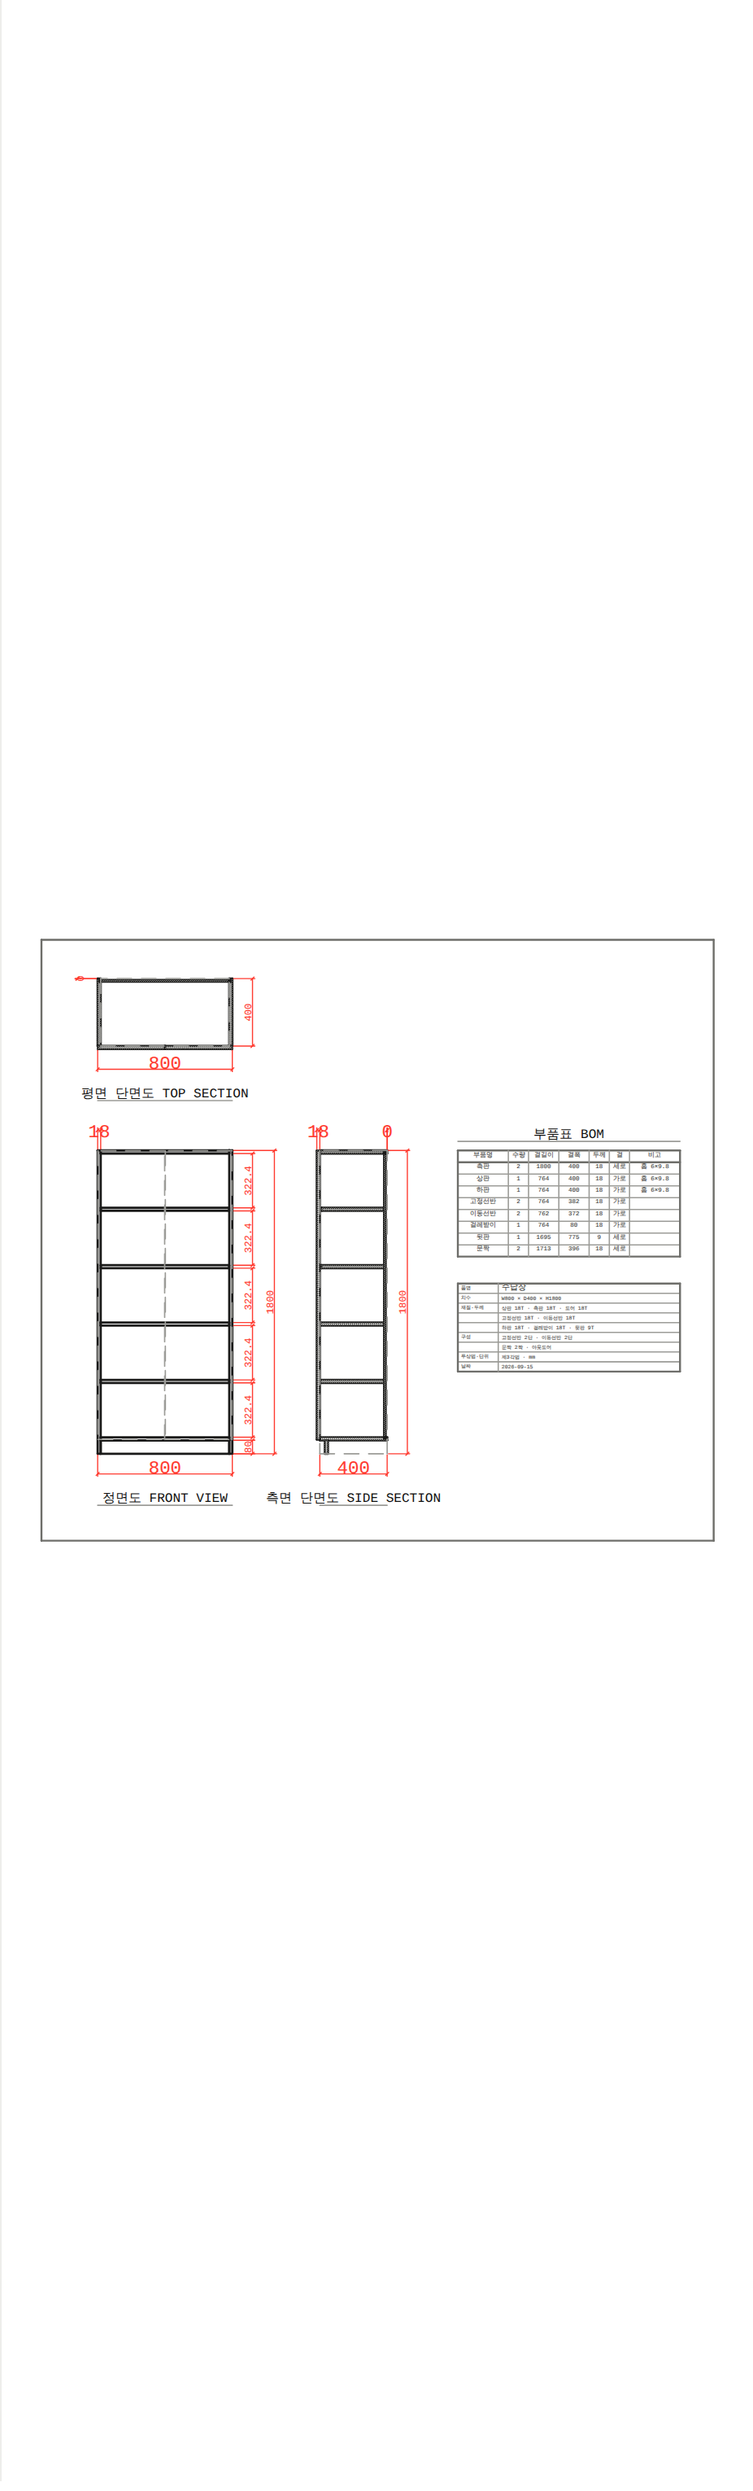
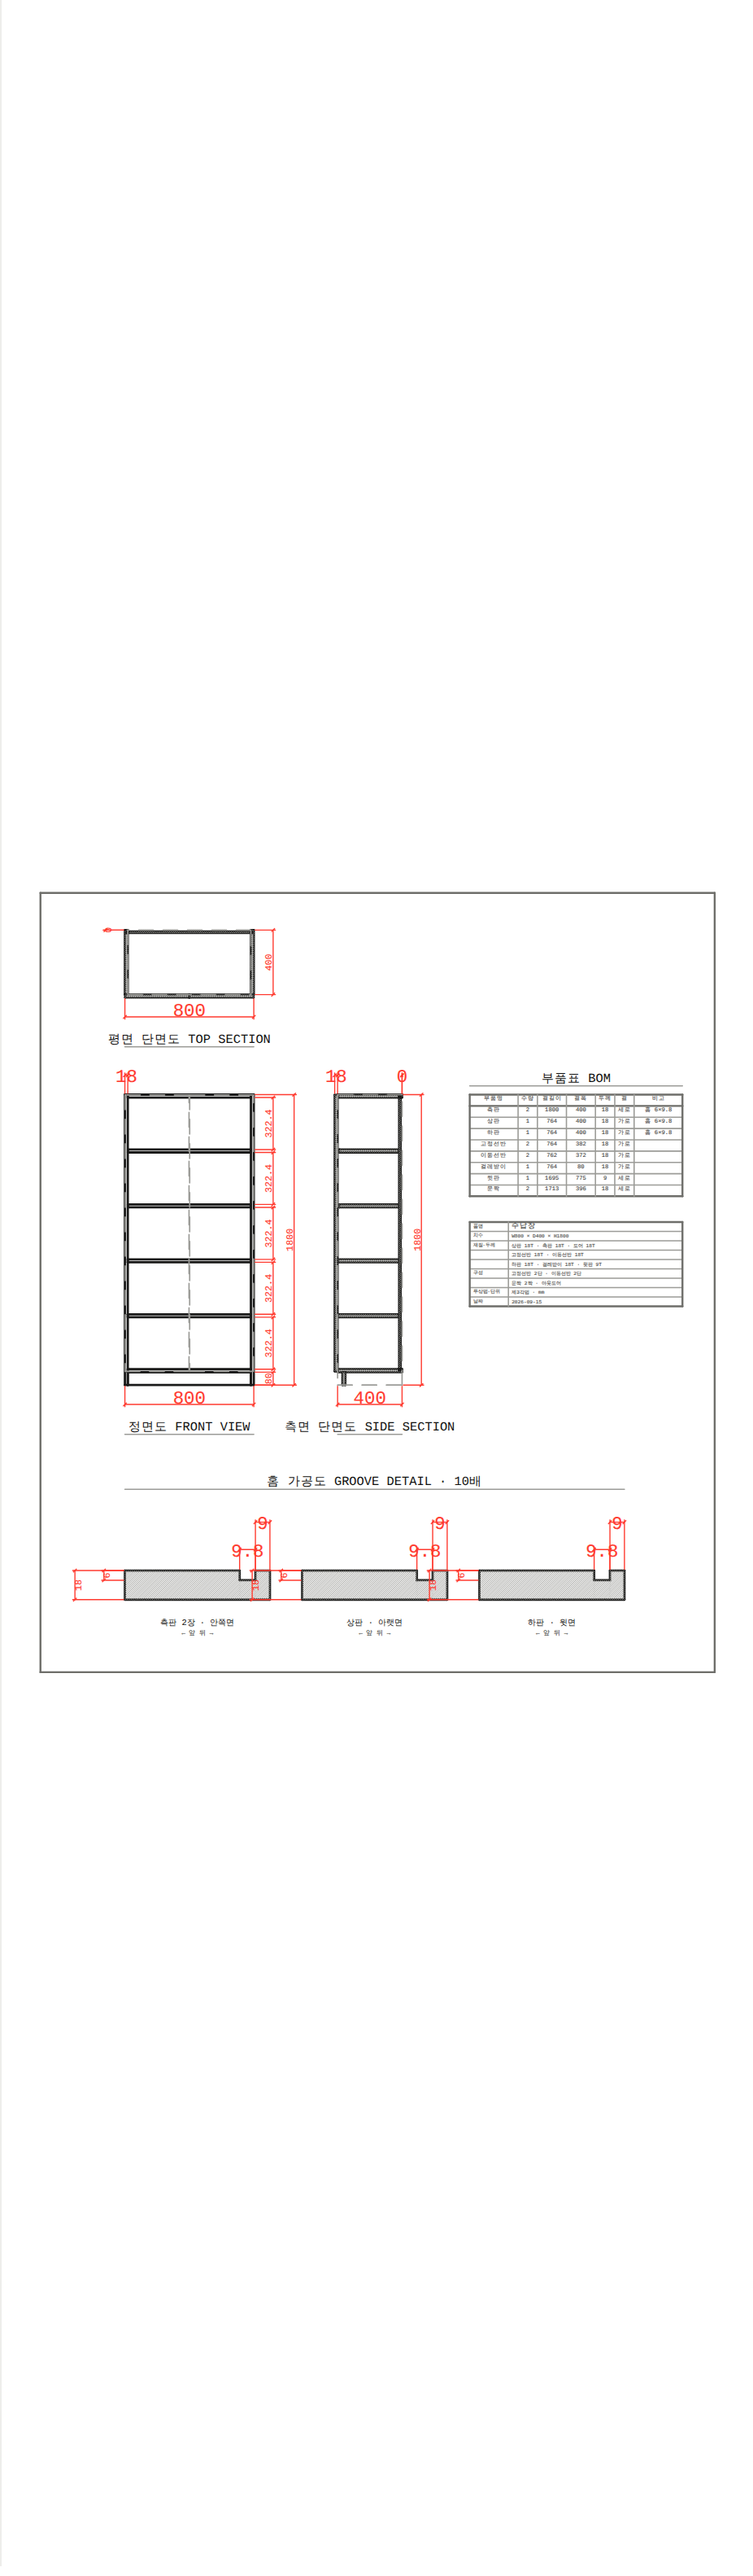
홈 가공도를 부속마다 그리고 뒷판 들어감을 보드선택에 낸다
측판·상판·하판을 10배로 잘라 그려 홈 폭·깊이·뒤 끝까지 거리를 치수로 찍는다.
덮기면 가공도가 안 나온다. 들어감 값은 관계표와 같은 값이다.

Claude-Session: https://claude.ai/code/session_01EKNRGFHGrx8LhDAjWNMSSY

diff --git a/index.html b/index.html
@@ -38,6 +38,7 @@ button:disabled{opacity:.5;cursor:default}
   display:flex;align-items:center;gap:8px}
 .group h2::after{content:"";flex:1;height:1px;background:var(--line2)}
 .field{display:grid;grid-template-columns:1fr 112px;align-items:center;gap:10px}
+.field[hidden]{display:none}
 .field label{color:var(--ink);font-weight:600;word-break:keep-all}
 .field small{display:block;color:var(--ink3);font-weight:400;font-size:12px;word-break:keep-all}
 .num{display:flex;align-items:center;border:1px solid var(--line);border-radius:13px;background:#fff;overflow:hidden}
@@ -200,6 +201,8 @@ dialog::backdrop{background:rgba(17,17,16,.4)}
       <div class="field"><label for="TB">뒷판</label><select id="TB" data-key="TB"><option>2.7</option><option>3</option><option>5</option><option>6</option><option selected>9</option><option>12</option><option>15</option><option>18</option><option>23</option><option>24</option><option>25</option><option>28</option><option>55</option></select></div>
       <div class="field wide"><label>뒷판 조립</label>
         <div class="seg"><label><input type="radio" name="backMode" value="cover" checked>덮기</label><label><input type="radio" name="backMode" value="insert">끼우기</label></div></div>
+      <div class="field" id="backInWrap" hidden><label for="backIn">뒷판 들어감 <small>몸통 뒷면에서 홈까지</small></label>
+        <div class="num"><input id="backIn" type="number" min="0" max="40" step="0.5" value="9"><span>mm</span></div></div>
       <div id="customList"></div>
       <div class="field wide"><label for="newPart">부속 만들기</label>
         <div class="addrow"><input id="newPart" type="text" maxlength="20" placeholder="부속 이름"><button id="btnAdd" type="button">추가</button></div>
@@ -444,17 +447,17 @@ function buildDrawing(s, m){
   // 뷰 제목 — 글자 아래에 짧은 줄을 그어 그림과 가른다 (스펙시트에서 흔한 꼴)
   const 제목 = (str, cx, y, w) => { text(str, cx, y, 46); 쪽 = 1; line(cx - w/2, y - 36, cx + w/2, y - 36, 'TITLE'); 쪽 = 0; };
   const tick = (x,y) => line(x-9,y-9,x+9,y+9,'DIM');
-  const dimH = (x1,x2,y,off) => {
+  const dimH = (x1,x2,y,off,글) => {
     const sg = Math.sign(off)||1, yl = y+off;
     line(x1,y+sg*8,x1,yl+sg*14,'DIM'); line(x2,y+sg*8,x2,yl+sg*14,'DIM'); line(x1,yl,x2,yl,'DIM');
     tick(x1,yl); tick(x2,yl);
-    text(fmt(Math.abs(x2-x1)), (x1+x2)/2, yl - sg*(TH/2+8), TH, 'DIM');
+    text(글 || fmt(Math.abs(x2-x1)), (x1+x2)/2, yl - sg*(TH/2+8), TH, 'DIM');
   };
-  const dimV = (y1,y2,x,off) => {
+  const dimV = (y1,y2,x,off,글) => {
     const sg = Math.sign(off)||1, xl = x+off;
     line(x+sg*8,y1,xl+sg*14,y1,'DIM'); line(x+sg*8,y2,xl+sg*14,y2,'DIM'); line(xl,y1,xl,y2,'DIM');
     tick(xl,y1); tick(xl,y2);
-    text(fmt(Math.abs(y2-y1)), xl - sg*(TH/2+8), (y1+y2)/2, TH, 'DIM', 'MC', 90);
+    text(글 || fmt(Math.abs(y2-y1)), xl - sg*(TH/2+8), (y1+y2)/2, TH, 'DIM', 'MC', 90);
   };
   // 숨긴 부속은 도면에 안 그린다 — 가린 것을 들여다보라는 것이다. 부품표에는 그대로 남는다.
   const 목록 = m.parts.filter(p => !p.숨김);
@@ -501,6 +504,33 @@ function buildDrawing(s, m){
   dimV(oy, oy + D, W, 120);
   dimV(oy + m.CD, oy + D, 0, -120);
   제목('평면 단면도  TOP SECTION', W/2, oy - 270 - m.앞으로, W);
+
+  // ───────── 홈 가공도 — 뒷판을 끼울 때만 그린다 ─────────
+  // 홈은 6mm 안팎이라 1:1 로는 선 하나로 뭉갠다. 여섯 배로 키워 부속마다 한 칸씩 그린다.
+  // 뒤 끝을 오른쪽에 두고 그 면을 잘라 본 그림이다 — 현장에서 이 그림만 보고 홈을 팔 수 있어야 한다.
+  if (m.홈){
+    const M = 10, 보임 = 90, 간격 = 1100, gy = -1150;   // 10배 · 뒤 끝에서 90mm 만큼만 보인다
+    const 칸들 = [['측판 2장', '안쪽면', Tside], ['상판', '아랫면', Ttop], ['하판', '윗면', Tbot]];
+    제목(`홈 가공도  GROOVE DETAIL · 10배`, (칸들.length-1)*간격/2 + 보임*M/2, gy + 540, 칸들.length*간격 - 200);
+    칸들.forEach(([이름, 면, T], i) => {
+      const x0 = i*간격, w = 보임*M, h = T*M, y0 = gy - h;
+      const gx = x0 + w - (규칙.홈뒤살 + m.홈.폭)*M, gw = m.홈.폭*M, gd = m.홈.깊이*M;
+      // 판 단면 — 홈이 파인 면이 위다
+      line(x0, y0, x0 + w, y0); line(x0, y0, x0, y0 + h); line(x0 + w, y0, x0 + w, y0 + h);
+      line(x0, y0 + h, gx, y0 + h);
+      line(gx, y0 + h, gx, y0 + h - gd); line(gx, y0 + h - gd, gx + gw, y0 + h - gd);
+      line(gx + gw, y0 + h - gd, gx + gw, y0 + h);
+      line(gx + gw, y0 + h, x0 + w, y0 + h);
+      hatch(x0, y0, gx - x0, h); hatch(gx, y0, gw, h - gd); hatch(gx + gw, y0, x0 + w - (gx + gw), h);
+      // 세 숫자 — 홈 폭 · 뒤 끝까지 · 홈 깊이. 여섯 배로 그렸으니 숫자는 참값을 적는다.
+      dimH(gx, gx + gw, y0 + h, 130, fmt(m.홈.폭));
+      dimH(gx + gw, x0 + w, y0 + h, 300, fmt(규칙.홈뒤살));   // 한 칸 위에 — 화면에서 치수 글자를 키우면 홈 폭과 부딪힌다
+      dimV(y0 + h - gd, y0 + h, x0, -130, fmt(m.홈.깊이));
+      dimV(y0, y0 + h, x0, -310, fmt(T));
+      text(`${이름} · ${면}`, x0 + w/2, y0 - 150, 40);
+      text('← 앞                    뒤 →', x0 + w/2, y0 - 220, 30, 'TITLE');
+    });
+  }
 
   // 부품표 + 표제란
   const bom = bomRows(m);
@@ -958,6 +988,8 @@ function update(){
   applySel();
   숨김바();
   표값갱신();
+  $('#backInWrap').hidden = state.backMode !== 'insert';          // 끼우기일 때만 보인다
+  if (document.activeElement !== $('#backIn')) $('#backIn').value = 규칙.홈뒤살;
 }
 
 // 도면 칸 너비가 바뀌면 글자배도 달라진다 — 다시 그린다(모델은 그대로).
@@ -994,6 +1026,13 @@ document.querySelectorAll('[data-key]').forEach(el => {
 });
 document.querySelectorAll('input[name=topStyle]').forEach(r => r.addEventListener('change', () => { state.topStyle = r.value; update(); }));
 document.querySelectorAll('input[name=backMode]').forEach(r => r.addEventListener('change', () => { state.backMode = r.value; update(); }));
+// 「뒷판 들어감」 은 관계표의 홈뒤살과 같은 값이다. 어느 쪽에서 만져도 같이 움직인다.
+$('#backIn').addEventListener('input', () => {
+  const v = Number($('#backIn').value);
+  if (!Number.isFinite(v)) return;
+  규칙.홈뒤살 = Math.min(40, Math.max(0, v));
+  담기(); update();
+});
 document.querySelectorAll('input[name=doors]').forEach(r => r.addEventListener('change', () => { state.doors = Number(r.value); update(); }));
 document.querySelectorAll('input[name=doorMode]').forEach(r => r.addEventListener('change', () => { state.doorMode = r.value; update(); }));
 document.querySelectorAll('input[name=hinge]').forEach(r => r.addEventListener('change', () => { state.hinge = r.value; update(); }));
